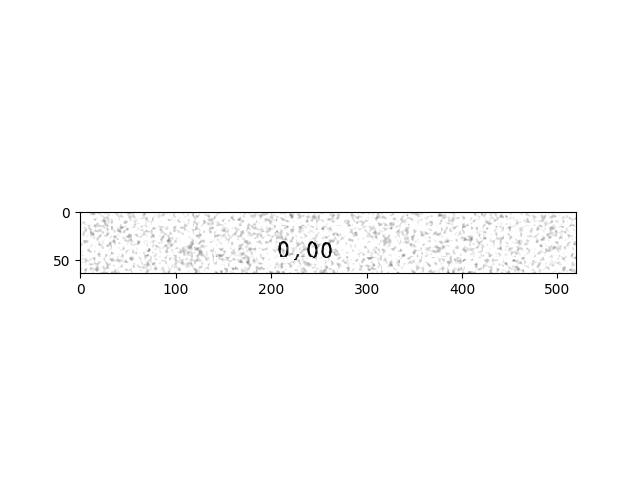
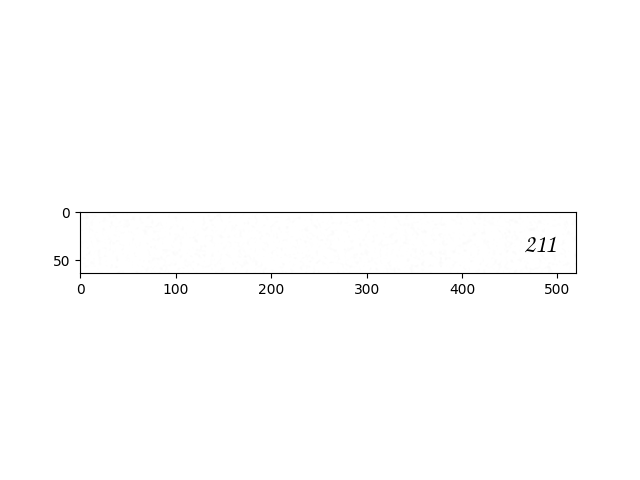
-

Changed region(s): [[0.125, 0.4375, 0.9062, 0.5938]]

diff --git a/algs/ocr/test7.md b/algs/ocr/test7.md
@@ -23,37 +23,30 @@ Tensor("gru2_b/transpose_1:0", shape=(?, ?, 512), dtype=float32)
 
 
 ```python
-import pandas as pd
-import numpy as np
-import matplotlib.pyplot as plt
-import tensorflow as tf
-import random
 from PIL import Image
 import util
 
-w = 128; h = 64
-
-np.random.seed(0)
-random.seed(0)
-
 (s,t) = util.randomstring()
 print s, t
-dataset = util.paint_text(s,w,h,rotate=True,ud=True,multi_fonts=True)
-plt.imshow(dataset.reshape(h,w),cmap='gray',interpolation="none")
+res = util.paint_text(s,520,64,rotate=True,ud=True,multi_fonts=True)
+res = res.reshape(64,520)
+print res.shape
+#im = Image.fromarray(res)
+#plt.imshow(res)
+plt.imshow(res,cmap='gray',interpolation="none")
 plt.savefig('out1.png')
-print dataset.shape
 dataset = dataset.reshape(1,w,h,1)
 print dataset.shape
 ```
 
 ```text
-CZ74254731 sender_dic
-(1, 64, 128)
-(1, 128, 64, 1)
+211 customer_id
+(64, 520)
+(1, 512, 64, 1)
 ```
 
 ```python
-w = 128; h = 64
+w = 512; h = 64
 # junk image, only one
 #dataset = np.zeros((1,w,h,1))
 
@@ -72,6 +65,9 @@ def bias_variable(shape):
 def conv2d(x, W):
   return tf.nn.conv2d(x, W, strides=[1, 1, 1, 1], padding='SAME')
 
+def max_pool_1x1(x):
+  return tf.nn.max_pool(x, ksize=[1, 1, 1, 1],
+                        strides=[1, 1, 1, 1], padding='SAME')
 def max_pool_2x2(x):
   return tf.nn.max_pool(x, ksize=[1, 2, 2, 1],
                         strides=[1, 2, 2, 1], padding='SAME')
@@ -79,37 +75,40 @@ def max_pool_2x2(x):
 tf.reset_default_graph()
 
 inputs = tf.placeholder(tf.float32, [None, w, h, 1])
+print 'inputs', inputs.shape
 
 W_conv1 = weight_variable([3, 3, 1, num_filters])
 b_conv1 = bias_variable([num_filters])
 h_conv1 = tf.nn.relu(conv2d(inputs, W_conv1) + b_conv1)
-h_pool1 = max_pool_2x2(h_conv1)
+h_pool1 = max_pool_1x1(h_conv1)
 
 W_conv2 = weight_variable([3, 3, num_filters, num_filters])
 b_conv2 = bias_variable([num_filters])
 h_conv2 = tf.nn.relu(conv2d(h_pool1, W_conv2) + b_conv2)
-h_pool2 = max_pool_2x2(h_conv2)
+h_pool2 = max_pool_1x1(h_conv2)
+print 'h_pool2',h_pool2
 
 h_pool2_flat = tf.reshape(h_pool2, [-1, 32, 256])
+print 'h_pool2_flat',h_pool2_flat
 
 W_fc1 = tf.contrib.layers.fully_connected(h_pool2_flat, 32)
+print 'W_fc1',W_fc1
 
 cell = tf.contrib.rnn.GRUCell(hidden_layer_size)
-outputs, states = tf.nn.dynamic_rnn(cell, h_pool2_flat, dtype=tf.float32)
-print 'outputs.shape', outputs.shape
-
-print inputs.shape
+rnnout, states = tf.nn.dynamic_rnn(cell, h_pool2_flat, dtype=tf.float32)
+print 'rnnshape', rnnout.shape
 
 with tf.Session() as sess:
      sess.run(tf.global_variables_initializer())
-     output = sess.run(W_fc1, feed_dict={inputs: dataset})
-     print 'output',output.shape
+     output = sess.run(rnnout, feed_dict={inputs: dataset})
 ```
 
 ```text
-outputs.shape (?, 32, 512)
-(?, 128, 64, 1)
-output (1, 32, 32)
+inputs (?, 512, 64, 1)
+h_pool2 Tensor("MaxPool_1:0", shape=(?, 512, 64, 16), dtype=float32)
+h_pool2_flat Tensor("Reshape:0", shape=(?, 32, 256), dtype=float32)
+W_fc1 Tensor("fully_connected/Relu:0", shape=(?, 32, 32), dtype=float32)
+rnnshape (?, 32, 512)
 ```
 
 
